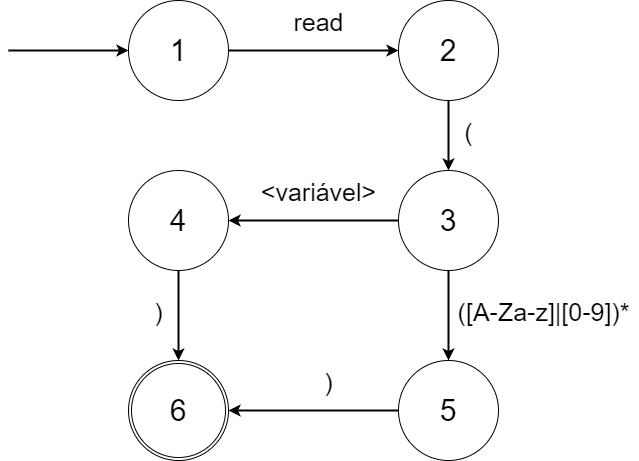
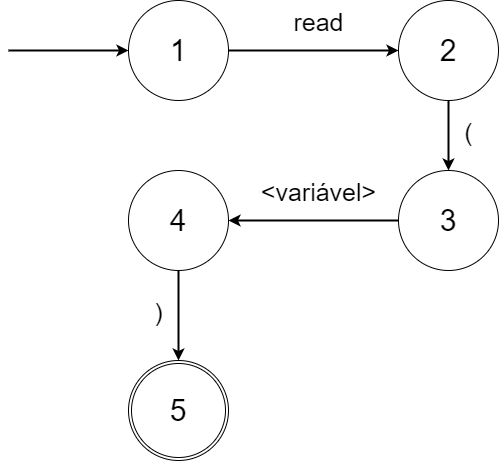
readme - v1

diff --git a/readme.md b/readme.md
@@ -28,21 +28,15 @@ apresentaram suas expressões regulares e/ou autômatos.
 
 
 
-<img src="imagens\automato_character.png" style="zoom:80%;" />
-
-Figura 1 – Autômato character.
-
-
-
 <img src="imagens\automato_int.png" style="zoom:80%;" />
 
-Figura 2 – Autômato int.
+Figura 1 – Autômato int.
 
 
 
 <img src="imagens\automato_float.png" style="zoom:80%;" />
 
-Figura 3 – Autômato float.
+Figura 2 – Autômato float.
 
 
 
@@ -59,7 +53,7 @@ Figura 3 – Autômato float.
 
 <img src="imagens\automato_programa.png" style="zoom:80%;" />
 
-Figura 4 – Autômato programa.
+Figura 3 – Autômato programa.
 
 
 
@@ -75,27 +69,42 @@ Lista de símbolos especiais: . ; : ( ) { }
 
 ### 1.4.1 Atribuição
 
-Comando de atribuição: (<=).
+Comando de atribuição: (=).
 
 
 
 ### 1.4.2 Entrada
 
-Comando para entrada de dados: read(<variável>|([A-Za-z]|[0-9])*).
+Comando para entrada de dados: read(\<variável>).
 
 <img src="imagens\automato_read.png" style="zoom:80%;" />
 
-Figura 5 – Autômato read.
+Figura 4 – Autômato read.
 
 
 
 ### 1.4.3 Saída
 
-Comando para saída de dados: write(<variável>|([A-Za-z]|[0-9])*).
+Para saída de dados, temos dois comandos: write e writevar.
+##### 1.4.3.1 write:
+- Utilizado para saída de texto
+- Expressão regular: write([a-zA-Z][a-zA-z0-9]*)
 
-<img src="imagens\automato_write.png" style="zoom:80%;" />
+- Autômato:
 
-Figura 6 – Autômato write.
+  <img src="imagens\automato_if.png" style="zoom:80%;" />
+
+Figura 5 – Autômato write.
+##### 1.4.3.2  writevar:
+
+- Utilizado para saída de variáveis
+- Expressão regular: writevar(\<variavel>)
+
+- Autômato:
+
+  <img src="imagens\automato_if.png" style="zoom:80%;" />
+
+Figura 6 – Autômato writevar.
 
 
 
@@ -103,9 +112,9 @@ Figura 6 – Autômato write.
 
 A linguagem terá suporte para duas estruturas de repetição, if e if/else.
 
-##### If:
+##### 1.4.4.1 If:
 
-- Expressão regular: if(<expressão lógica>)begin <instrução>* end
+- Expressão regular: if(<expressão lógica>){ <instrução>* }
 
 - Autômato:
 
@@ -115,7 +124,7 @@ Figura 7 – Autômato if.
 
 
 
-##### If/Else:
+##### 1.4.4.2 If/Else:
 
 - Expressão regular: if(<expressão lógica>){ <instrução>* }else{ <instrução>*}
 
@@ -125,6 +134,7 @@ Figura 7 – Autômato if.
 
 Figura 8 – Autômato if else.
 
+**Obs.:** *Operador else ainda não foi implementado.*
 
 
 ### 1.4.5 Repetição
